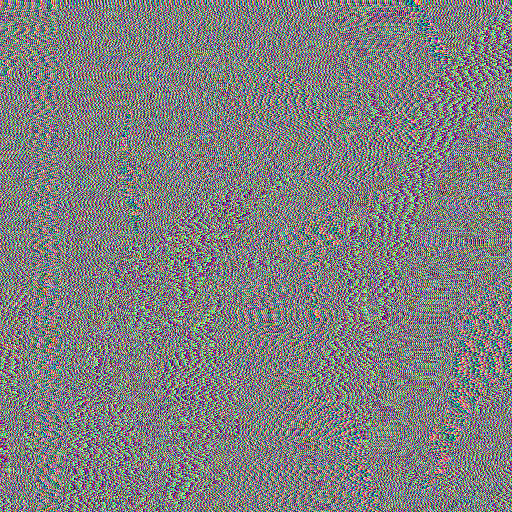
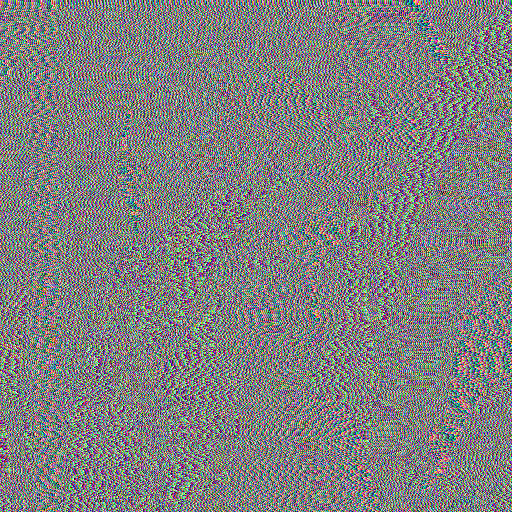
chen's decrypt + added histograms

diff --git a/main.py b/main.py
@@ -13,6 +13,7 @@ class Widget(QMainWindow):
         loadUi("assets/memoir.ui",self)
         self.setWindowTitle("Memoir")
 
+        self.histogram.clicked.connect(self.Histogram)
         self.startTrans.clicked.connect(self.Transformations)
         self.startTrans_Diffusion.clicked.connect(self.Diffusion)
         self.transChoice.currentIndexChanged.connect(self.checkTransOption)
@@ -37,7 +38,12 @@ class Widget(QMainWindow):
             self.showimageResult('Images/Saved/'+name+'.png')
         elif valueDiff == 3:
             cr,cg,cb,g = tools.checkNull(self.ciR.text()),tools.checkNull(self.ciG.text()),tools.checkNull(self.ciB.text()),tools.checkNull(self.diffG.text())
-            newImg, name = act.chenDiffusion(cv2.cvtColor(cv2.imread(self.imagename), cv2.COLOR_BGR2RGB), int(cr),int(cg),int(cb))
+            newImg, name,self.chenXi = act.chenDiffusion(cv2.cvtColor(cv2.imread(self.imagename), cv2.COLOR_BGR2RGB), int(cr),int(cg),int(cb))
+            self.savedImg = tools.SaveImage(newImg, name)
+            self.showimageResult('Images/Saved/'+name+'.png')
+        elif valueDiff == 4:
+            cr,cg,cb,g = tools.checkNull(self.ciR.text()),tools.checkNull(self.ciG.text()),tools.checkNull(self.ciB.text()),tools.checkNull(self.diffG.text())
+            newImg, name = act.chenDecrypt(cv2.cvtColor(cv2.imread(self.imagename), cv2.COLOR_BGR2RGB), int(cr),int(cg),int(cb),self.chenXi)
             self.savedImg = tools.SaveImage(newImg, name)
             self.showimageResult('Images/Saved/'+name+'.png')
         print("Diffusion time: ",round(time.time() - tStart,3))
@@ -72,14 +78,12 @@ class Widget(QMainWindow):
             self.ciG.setEnabled(True), self.ciG.setText('')
             self.ciB.setEnabled(True), self.ciB.setText('')
             self.diffG.setEnabled(True), self.diffG.setText('')
-        elif valueDiff == 3:
+        elif valueDiff == 3 or valueDiff == 4:
             self.ciR.setEnabled(True), self.ciR.setText('')
             self.ciG.setEnabled(True), self.ciG.setText('')
             self.ciB.setEnabled(True), self.ciB.setText('')
             self.diffG.setEnabled(False), self.diffG.setText('')
         
-
-
         if ValueTran == 0:
             self.Times.setEnabled(False), self.Times.setText('')
             self.Cata.setEnabled(False), self.Cata.setText('')
@@ -92,6 +96,26 @@ class Widget(QMainWindow):
             self.Cata.setEnabled(True), self.Cata.setText('')
             self.Catb.setEnabled(True), self.Catb.setText('')
             self.Times.setEnabled(False), self.Times.setText('')
+
+    def Histogram(self):
+
+        imageFile = QFileDialog.getOpenFileName(None, "Open image", "./Images", "Image Files (*.png *.jpg *.bmp *.jpeg *.png *.jfif)")
+        image1= str(imageFile[0])
+        imageFile = QFileDialog.getOpenFileName(None, "Open image", "./Images", "Image Files (*.png *.jpg *.bmp *.jpeg *.png *.jfif)")
+        image2= str(imageFile[0])
+        histIm1, histIm2 = act.Hist_RGB(tools.getImage(image1)), act.Hist_RGB(tools.getImage(image2))
+        fig = plt.figure(figsize=(15, 8))
+        ax1 = fig.add_subplot(121)
+        plt.title("image 1")
+        ax2 = fig.add_subplot(122)
+        plt.title("image 2")
+        if len(histIm1) == 3:
+            ax1.plot(histIm1[0], color = 'red'), ax1.plot(histIm1[1], color = 'green'), ax1.plot(histIm1[2], color = 'blue')
+            ax2.plot(histIm2[0], color = 'red'), ax2.plot(histIm2[1], color = 'green'), ax2.plot(histIm2[2], color = 'blue')
+        else:
+            ax1.plot(histIm1)
+            ax2.plot(histIm2)
+        plt.show()
 
     def showimage(self):
         self.codeImg.setPixmap(QtGui.QPixmap(self.imagename))  

diff --git a/act.py b/act.py
@@ -2,13 +2,25 @@ import cv2
 from numpy import zeros_like
 from GeometricTransformations import *
 import random
-def TransformationsGeo(image, imageCV, x, y, angle, factor, Value):
+def TransformationsGeo(image, image2, x, y, angle, factor, Value):
     if factor < 0: factorCV = 1/abs(factor - 1)
     else: factorCV = factor
-    if Value == 1: return Translation(image, int(y), int(x)), cv2.warpAffine(imageCV, np.float32([[1, 0, x],[0, 1, y]]), (imageCV.shape[1], imageCV.shape[0])), 'Translation'
-    elif Value == 2: return rotation(image, angle), cv2.warpAffine(imageCV, cv2.getRotationMatrix2D((imageCV.shape[1]/2, imageCV.shape[0]/2), angle, 1), (imageCV.shape[1], imageCV.shape[0])), 'Rotation'
-    elif Value == 3: return resize(image, factor), cv2.resize(imageCV, None, fx=factorCV, fy=factorCV, interpolation = cv2.INTER_CUBIC), 'Scale'
-    elif Value == 4: return Shear(image, float(y), float(x)), cv2.warpPerspective(imageCV, np.float32([[1, float(x), 0],[float(y), 1, 0],[0, 0, 1]]), (imageCV.shape[1], imageCV.shape[0])), 'shear'
+    if Value == 1: return Translation(image, int(y), int(x)), cv2.warpAffine(image2, np.float32([[1, 0, x],[0, 1, y]]), (image2.shape[1], image2.shape[0])), 'Translation'
+    elif Value == 2: return rotation(image, angle), cv2.warpAffine(image2, cv2.getRotationMatrix2D((image2.shape[1]/2, image2.shape[0]/2), angle, 1), (image2.shape[1], image2.shape[0])), 'Rotation'
+    elif Value == 3: return resize(image, factor), cv2.resize(image2, None, fx=factorCV, fy=factorCV, interpolation = cv2.INTER_CUBIC), 'Scale'
+    elif Value == 4: return Shear(image, float(y), float(x)), cv2.warpPerspective(image2, np.float32([[1, float(x), 0],[float(y), 1, 0],[0, 0, 1]]), (image2.shape[1], image2.shape[0])), 'shear'
+""""""""""""""""""""""""""""""""""""""""""""""""""""""""""""""""""""""""""""""
+def Hist_RGB(image):
+    histR = np.zeros(256)
+    histG = np.zeros(256)
+    histB = np.zeros(256)
+
+    for i in range(len(image)):
+        for j in range(len(image[0])):
+            histR[image[i][j][0]] += 1
+            histG[image[i][j][1]] += 1
+            histB[image[i][j][2]] += 1
+    return (histR, histG, histB)
 
 """"""""""""""""""""""""""""""""""""""""""""""""""""""""""""""""""""""""""""""
 def stretchImage (image,factor):
@@ -127,5 +139,26 @@ def chenDiffusion(image,cr,cg,cb):
             newIm[row,col] = p
             ci = p
             Q = 4*Q*(1-Q)
-    return newIm,'Chen_diff'
+    return newIm,'Chen_diff',xi
     
+""""""""""""""""""""""""""""""""""""""""""""""""""""""""""""""""""""""""""""""
+def chenDecrypt(image,cr,cg,cb,xi):
+    ci = [cr,cg,cb]
+    newIm = zeros_like(image)
+    w,h = image.shape[1],image.shape[0]
+    Q = 4*xi*(1-xi)
+    for row in range(h):
+        for col in range(w):
+            if row == 0 and col == 0:
+                p = np.add(round(Q*255) ^ image[row,col] ^ ci, (256 - round(Q*255)))% 256
+                newIm[row,col] = p
+            elif col == 0 and row != 0:
+                p = np.add(round(Q*255) ^ image[row,col] ^ image[row-1,w-1], (256 - round(Q*255)))% 256
+                newIm[row,col] = p
+            else:
+                p = np.add(round(Q*255) ^ image[row,col] ^ image[row,col-1], (256 - round(Q*255)))% 256
+                newIm[row,col] = p
+            ci = p
+            Q = 4*Q*(1-Q)
+
+    return newIm,'Chen_decrypt'
